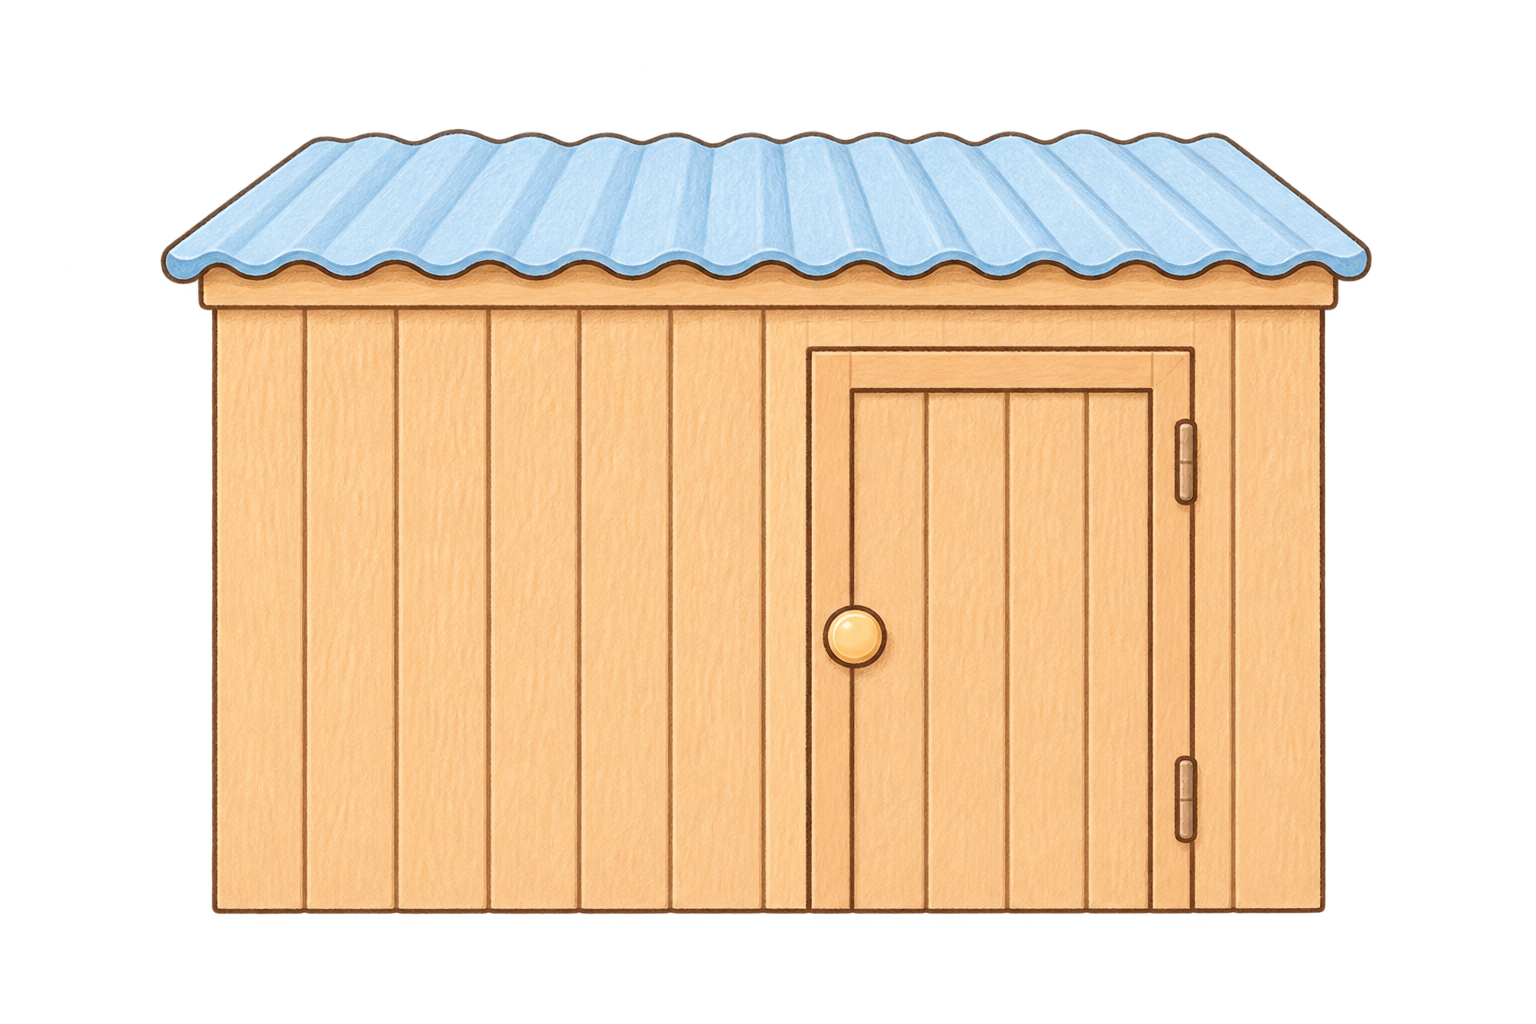
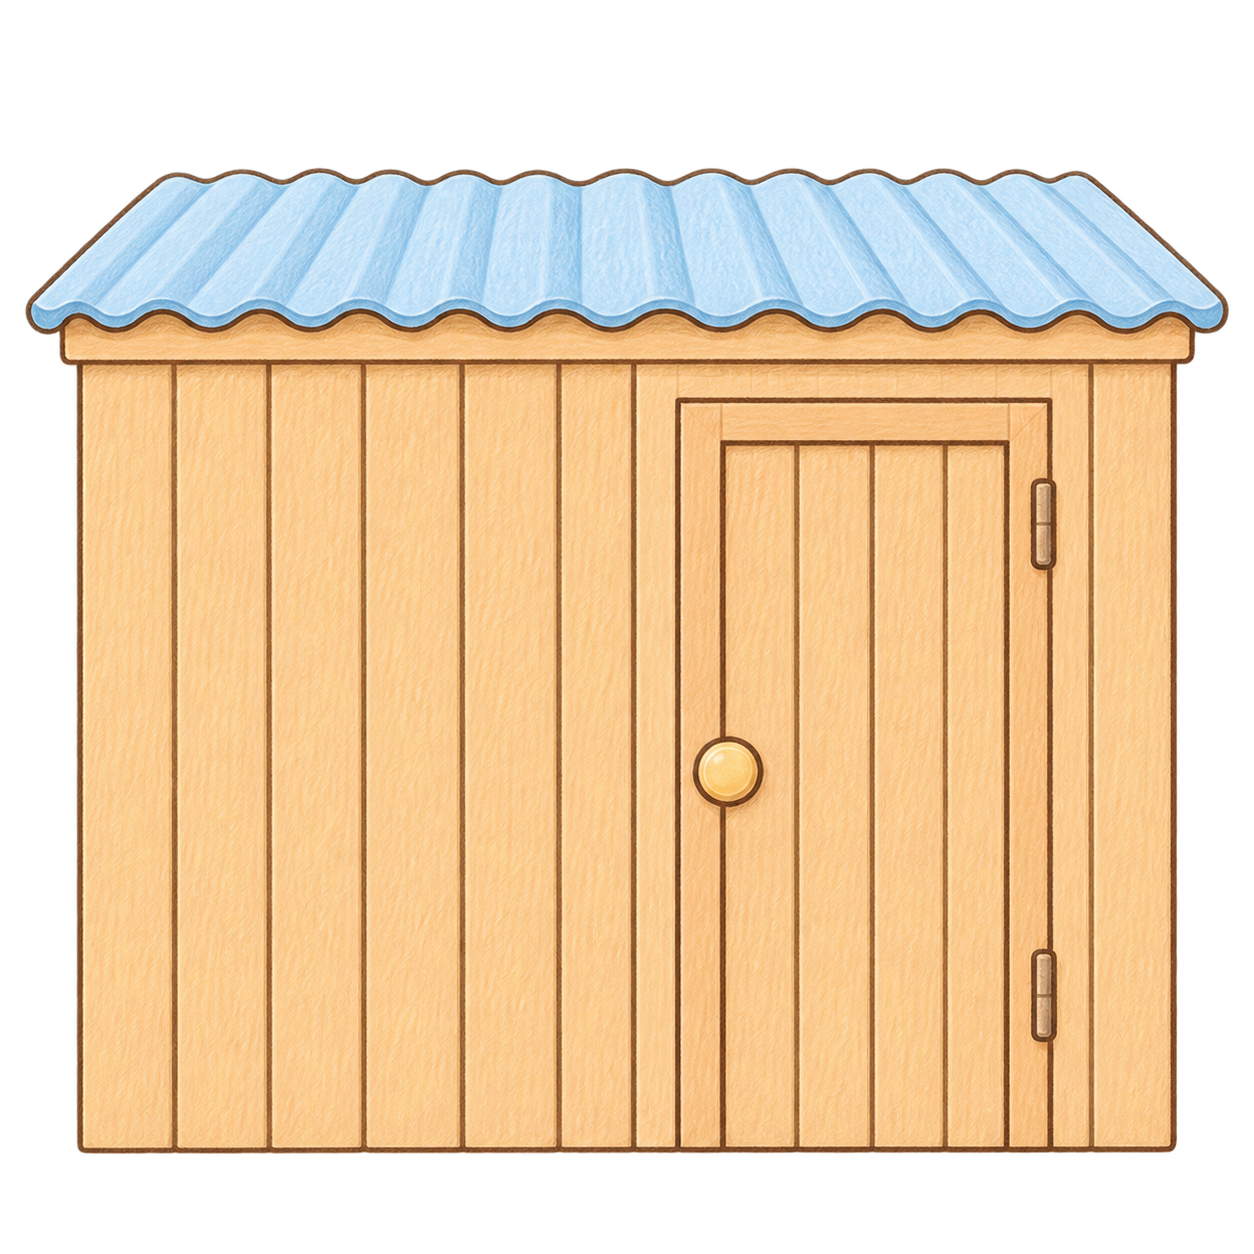
L6: tách thêm 18 món (trạng thái, dáng Lu, dáng Mun, nhà kho vẽ lại, khung cửa chuồng)

diff --git a/art/review/l6_tach_fix_brief.md b/art/review/l6_tach_fix_brief.md
@@ -1,0 +1,84 @@
+TÁCH TỪ DEMO — lượt `l6_fix` (Level 6, G6-21: Vẽ lại cây và Lu gặm), đúng quy tắc trong AGENTS.md (vai Codex: chỉ vẽ; ngoại lệ "TÁCH TỪ DEMO": mỗi món một lần gọi image_gen, mỗi món một ảnh, 2 món).
+
+**Ảnh demo gốc đã duyệt: art/out/demo/l6_demo_path_916.png** (khung điện thoại); vùng chơi không giao diện: **art/out/demo/l6_demo_path_play.png** (1024x1536, toạ độ bên dưới tính trên ảnh này).
+Chủ dự án chốt demo này; tách từng món đúng như trong demo. Vị trí trong game do Dev sắp, không cần giữ chỗ đứng.
+
+## Luật chung cho mọi món
+- **Vẽ lại đúng món trong demo: cùng hình dáng, tỉ lệ, màu, chi tiết, nét.** Không tự thiết kế lại, **không thêm, không bớt chi tiết**, màu **không nhạt hơn, không đậm hơn** demo, cùng góc nhìn. (Riêng `l6_tree` vẽ đẹp hơn theo mẫu ghi ở món đó.)
+- Món chưa có trong demo (dáng Lu, dáng Mun, trạng thái khác): **cùng thiết kế, màu, nét, cỡ đầu** như Lu, Mun trong demo; Lu theo art/out/dogs/lu_ref.png, Mun theo art/out/cats/mun_ref.png.
+- Mỗi món: gọi image_gen **một lần**, đính kèm ảnh demo gốc + ảnh cắt của món + ảnh tham chiếu chung. **Nền TRONG SUỐT thật.** Món to hết cỡ trong khung, lề trong suốt khoảng 40px (G5-34), không bị cắt.
+- **Chỉ đúng một món** trong ảnh. Không lấy đồ chồng lên, đồ phía sau, nền, bóng, quầng. Chỗ bị che: vẽ bù đúng thiết kế.
+- Không chữ, không số, không khung, không bóng sàn, không viền trắng. **Mọi con vật nhìn sang phải.**
+- Lưu từng món vào **art/out/_sheets/l6src_<key>.png** (đúng tên dưới; file mới; nếu đã có thì được phép ghi đè). Chép nguyên ảnh, không cắt, không xử lý.
+- **Món ghi "Chỉnh sửa từ ảnh …"**: dùng chế độ chỉnh sửa trên ảnh `l6src_` đó (vẽ nó trước trong lượt nếu cùng lượt): giữ nguyên cỡ khung, vị trí, góc nhìn, màu, nét, chỉ đổi đúng phần ghi.
+- Trước mỗi lần gọi image_gen viết "Nhắc lại quy tắc" (phong cách, góc nhìn, màu, nét, phần lấy / không lấy). Tin nhắn cuối có "Tự kiểm" **từng món** (giống demo về hình, tỉ lệ, màu, chi tiết; đã bỏ phần không lấy; nền trong suốt; không chữ: đạt / không đạt + lý do), SAVED từng file, prompt cuối từng món.
+
+## Ảnh tham chiếu chung (mở hết bằng view_image)
+1. art/out/demo/l6_demo_path_916.png — **ẢNH DEMO GỐC**.
+2. art/out/demo/l6_demo_path_play.png — vùng chơi của demo (đo toạ độ).
+3. art/ref/owner_l1_style_ref.png — chuẩn màu và chất chì.
+4. art/ref/l1_depth_angle_ref.png — góc nhìn (sofa L1).
+
+## Danh sách 2 món
+
+### 1. `l6_tree` → art/out/_sheets/l6src_l6_tree.png (1024x1536, nền trong suốt)
+- **Ảnh demo gốc: art/out/demo/l6_demo_path_916.png, món nằm ở x 0–280, y 140–810 (cảnh xếp xong đường); **mẫu đẹp hơn: cây trong art/out/demo/l6_demo_table_play.png x 0–285, y 70–800** trong art/out/demo/l6_demo_path_play.png.**
+- Ảnh cắt từ demo: art/ref/l6_cut/crops/tree.png, art/ref/l6_cut/crops/tree_table_demo.png (đính kèm).
+- **VẼ LẠI (lần trước cây thấp và tròn quá; được phép ghi đè art/out/_sheets/l6src_l6_tree.png).** **Vẽ lại cho đẹp như cây trong cảnh Mun ăn trên bàn** (ảnh tree_table_demo.png): thân gỗ nâu mật ong cong mềm chia 2–3 nhánh, **tán tròn mập nhiều cụm bông xù xanh lá nhạt pha kem**, vài lá nhỏ vẽ nét bên trong tán, một cành ngang bên phải để đặt ổ chim (không vẽ ổ). Tán dày, tròn đều, không lởm chởm. Màu xanh lá nhạt pha kem như mẫu L1, không xanh tươi. **Tỉ lệ bắt buộc:** cây **cao : rộng ≈ 2,5 : 1** như cây trong cảnh Mun ăn trên bàn (cao ≈ 730, rộng ≈ 285): **thân cao, dài gần nửa cây**, phân nhánh ở khoảng giữa, tán tròn ở nửa trên. Khung 1024x1536, cây cao gần hết khung.
+- **KHÔNG lấy ổ chim (món riêng), bụi cây dưới gốc, hàng rào, giỏ, Mun.**
+
+### 2. `l6_dog_chew` → art/out/_sheets/l6src_l6_dog_chew.png (1024x1024, nền trong suốt)
+- **Ảnh demo gốc: art/out/demo/l6_demo_path_916.png, món nằm ở đầu Lu trong cửa chuồng, x 750–960, y 985–1170 trong art/out/demo/l6_demo_path_play.png.**
+- Ảnh cắt từ demo: art/ref/l6_cut/crops/lu_head.png (đính kèm).
+- **VẼ LẠI (lần trước thiếu khúc xương; được phép ghi đè art/out/_sheets/l6src_l6_dog_chew.png).** Đầu Lu (lu_ref) + hai bàn chân trước, như đang thò ra khỏi cửa chuồng: tai cụp vàng mật ong, mắt híp vui, má hồng, **ngậm khúc xương kem ngang miệng**, hai chân trước tì đất. Đáy phẳng (cắt ngang ở ngưỡng cửa). **Khúc xương kem (như art/out/_sheets/l6src_l6_bone.png) nằm ngang, ngậm giữa hai hàm, thấy rõ hai đầu xương thò ra hai bên miệng**, đè lên hai chân trước như trong ảnh cắt lu_head.png.
+- **KHÔNG lấy chuồng, cửa vòm tối, ngưỡng cửa.**
+
+## Khối phong cách (art/style.md mục 1), dán nguyên
+
+```
+You are the artist for a cute 2D mobile puzzle game about finding cats ("Meo Đâu Rồi?").
+Every image you draw for this project MUST follow this style:
+
+STYLE
+- Hand-drawn look, like a children's picture book drawn with soft colored pencils.
+- Visible light colored-pencil texture and gentle grainy strokes inside the color areas.
+- Outlines: thin, slightly wobbly hand-drawn colored-pencil lines in warm dark brown (never pure black), with natural pressure variation like a real pencil: a bit darker and thicker in tucked-in places, overlaps and folds, lighter and tapering at the stroke ends, with small breaks along fluffy fur edges. Never one uniform, evenly thick, clean vector line.
+- Fur and soft edges: the outline can be drawn as short broken pencil strokes following the fur, sometimes in a slightly lighter brown.
+- Shapes: simple, round, chubby, soft corners. Slightly crooked and playful, never perfectly geometric.
+- Cute and funny ("kawaii" but not anime): big heads, small bodies, round eyes, tiny mouths.
+
+COLOR (locked to the Level 1 reference image)
+- The reference image art/ref/owner_l1_style_ref.png is ALWAYS attached. Match its palette, lightness, softness and pencil grain exactly. When in doubt, go lighter and softer, never stronger.
+- Soft, light, slightly muted pastels on warm cream paper, like gentle colored pencil: airy and cheerful, but never vivid, never deep, never neon, and never grey or washed out.
+- Use ONLY this palette (approximate): cream paper #FCF1DD, warm white #FFFAF0, outline brown #6B4A3A, honey wood #F2C796, caramel #D6A472, peach #F7B9A3, powder pink #F8C6CC, butter yellow #FCE39A, mint #B9DDBE, leaf green #9DC283, sky blue #B8DAF2, lavender #D8CCF0. Only for the black cat Mun: warm charcoal #3E3838.
+- No color may be more saturated or darker than its palette swatch. No deep purple or violet, no royal or cobalt blue, no coral or salmon red, no orange, no strong lemon yellow, no bright turquoise.
+- Large areas (walls, floors, curtains, beds, big furniture, big balls or bags) stay the lightest and softest colors in the picture; only small accents may be a little stronger.
+- Walls are warm cream or a very pale tint of a palette color, never pure white and never a strong tint.
+- Every color area shows visible light pencil grain with tiny cream paper gaps: no flat solid fills, no smooth digital gradients, no glossy highlights, no 3D render look.
+- Medium-low saturation, soft contrast; colors still read clearly at small size. No strong dark shadows; shading is only a few soft pencil strokes on one side.
+
+SIMPLICITY
+- Very few details. Each object is recognisable from its silhouette alone.
+- NO complex patterns, NO tiny ornaments, NO busy textures, NO realistic wood grain or fabric weave.
+- Allowed patterns only when the design asks for it, and then big and simple (3-5 stripes, 5-7 big dots).
+- Backgrounds are calm and simple, with lots of empty space.
+
+ABSOLUTE RULES
+- NO text, NO letters, NO numbers, NO logos, NO watermark, NO signature anywhere. Labels and signs use simple pictures only.
+- One object per image unless the spec says otherwise, centered, fully visible, not cropped.
+- Sprites (characters, objects, UI): transparent background, no floor shadow unless asked.
+- Backgrounds: portrait 2:3 (1024x1536), seen straight from the front, slightly top-down, no characters.
+- Keep the same character exactly the same across all images (use the reference images I upload).
+```
+
+## Khối góc nhìn (art/style.md mục 2b), dán nguyên
+
+```
+CAMERA (one shared camera for the whole game): look at everything the way the SOFA in the attached Level 1 angle reference is seen, with objects showing a bit more depth.
+Almost straight-on front view, eye a little above the objects, looking down gently. Horizontal edges stay horizontal, vertical edges stay vertical. No diagonal rotation, no three-quarter view.
+Depth is shown by the TOP faces, like the sofa seat: depth edges run almost straight up, converging only very slightly toward the picture centre. Deeper objects show taller top faces: a bed shows its mattress top as a large clear area, a desk top is clearly visible and deeper than a bookshelf top.
+Side faces are very thin, like the sofa arms: objects on the left half show a very thin right side, objects on the right half a very thin left side.
+Nothing is a flat paper cut-out: every object shows its top face and its thickness; round objects have a few pencil shading strokes and elliptical openings. Stacked or neighbouring objects share the same view.
+Room backgrounds like Level 1: back wall seen straight on, skirting and floor boards horizontal.
+Light from the upper left: a few pencil shading strokes on the right and bottom. No floor shadow.
+```

diff --git a/art/design-art-level6.md b/art/design-art-level6.md
@@ -76,7 +76,7 @@ Mỗi món một ảnh `art/out/_sheets/l6src_<key>.png` (Codex tách, brief `ar
 
 | Tờ | Ô | Key | Thư mục | Nhóm | Neo | Hiển thị | Nét |
 |---|---|---|---|---|---|---|---|
-| l6src_l6_shed | 0,0,1536,1024 | l6_shed | level6 |  | đáy | rộng 560 | 5 |
+| l6src_l6_shed | 0,0,1254,1254 | l6_shed | level6 |  | đáy | rộng 560 | 5 |
 | l6src_l6_shed_chimney | 0,0,1024,1536 | l6_shed_chimney | level6 |  | đáy | rộng 95 | 5 |
 | l6src_l6_table | 0,0,1536,1024 | l6_table | level6 |  | đáy | rộng 320 | 5 |
 | l6src_l6_crate | 0,0,1024,1536 | l6_crate | level6 |  | đáy | rộng 190 | 5 |
@@ -90,22 +90,22 @@ Mỗi món một ảnh `art/out/_sheets/l6src_<key>.png` (Codex tách, brief `ar
 | l6src_l6_watering_can | 0,0,1254,1254 | l6_watering_can | level6 |  | đáy | rộng 205 | 5 |
 | l6src_l6_picnic_basket_open | 0,0,1254,1254 | l6_picnic_basket_open | level6 | basket | đáy | rộng 190 | 5 |
 | l6src_l6_dog_house | 0,0,1254,1254 | l6_dog_house | level6 | dog_house | đáy | rộng 320 | 5 |
-| l6src_l6_picnic_basket_closed | 0,0,1024,1024 | l6_picnic_basket_closed | level6 | basket | đáy |  | 5 |
-| l6src_l6_glove_black_fallen | 0,0,1024,1024 | l6_glove_black_fallen | level6 | glove | đáy |  | 5 |
+| l6src_l6_picnic_basket_closed | 0,0,1254,1254 | l6_picnic_basket_closed | level6 | basket | đáy | rộng 192 | 5 |
+| l6src_l6_glove_black_fallen | 0,0,1254,1254 | l6_glove_black_fallen | level6 | glove | đáy | rộng 124 | 5 |
 | l6src_l6_bone | 0,0,1536,1024 | l6_bone | level6 |  | tâm | rộng 80 | 5 |
 | l6src_l6_sausage | 0,0,1536,1024 | l6_sausage | level6 |  | tâm | rộng 90 | 5 |
 | l6src_l6_dog_chew | 0,0,1024,1024 | l6_dog_chew | level6 |  | đáy | rộng 210 | 5 |
 | l6src_mun_roof_crouch_ears_up | 0,0,1536,1024 | mun_roof_crouch_ears_up | cats | mun_roof | đáy | rộng 245 | 2.5 |
-| l6src_mun_roof_crouch | 0,0,1536,1024 | mun_roof_crouch | cats | mun_roof | đáy |  | 2.5 |
-| l6src_l6_dog_bark | 0,0,1024,1024 | l6_dog_bark | level6 |  | đáy | rộng 240 | 2.5 |
-| l6src_l6_dog_run | 0,0,1536,1024 | l6_dog_run | level6 |  | đáy | rộng 300 | 2.5 |
-| l6src_l6_dog_run_bone | 0,0,1536,1024 | l6_dog_run_bone | level6 |  | đáy | rộng 260 | 2.5 |
-| l6src_l6_dog_beg | 0,0,1024,1024 | l6_dog_beg | level6 |  | đáy | rộng 230 | 2.5 |
-| l6src_l6_dog_belly | 0,0,1536,1024 | l6_dog_belly | level6 |  | đáy | rộng 280 | 2.5 |
-| l6src_mun_roof_edge | 0,0,1536,1024 | mun_roof_edge | cats |  | đáy | rộng 230 | 2.5 |
-| l6src_mun_step_down | 0,0,1024,1024 | mun_step_down | cats |  | đáy | rộng 220 | 2.5 |
-| l6src_mun_eat | 0,0,1024,1024 | mun_eat | cats |  | đáy | rộng 220 | 2.5 |
-| l6src_mun_sit_look | 0,0,1024,1024 | mun_sit_look | cats |  | đáy | rộng 200 | 2.5 |
+| l6src_mun_roof_crouch | 0,0,1536,1024 | mun_roof_crouch | cats | mun_roof | đáy | rộng 241 | 2.5 |
+| l6src_l6_dog_bark | 0,0,1254,1254 | l6_dog_bark | level6 |  | đáy | rộng 240 | 2.5 |
+| l6src_l6_dog_run | 0,0,1536,1024 | l6_dog_run | level6 |  | đáy | rộng 327 | 2.5 |
+| l6src_l6_dog_run_bone | 0,0,1536,1024 | l6_dog_run_bone | level6 |  | đáy | rộng 284 | 2.5 |
+| l6src_l6_dog_beg | 0,0,1254,1254 | l6_dog_beg | level6 |  | đáy | rộng 197 | 2.5 |
+| l6src_l6_dog_belly | 0,0,1536,1024 | l6_dog_belly | level6 |  | đáy | rộng 305 | 2.5 |
+| l6src_mun_roof_edge | 0,0,1536,1024 | mun_roof_edge | cats |  | đáy | rộng 290 | 2.5 |
+| l6src_mun_step_down | 0,0,1254,1254 | mun_step_down | cats |  | đáy | rộng 278 | 2.5 |
+| l6src_mun_eat | 0,0,1254,1254 | mun_eat | cats |  | đáy | rộng 250 | 2.5 |
+| l6src_mun_sit_look | 0,0,1254,1254 | mun_sit_look | cats |  | đáy | rộng 155 | 2.5 |
 | l6src_mun_climb | 0,0,1024,1536 | mun_climb | cats |  | đáy | rộng 150 | 2.5 |
 
 | Tờ hoặc key | Demo gốc | Vị trí trong demo |
